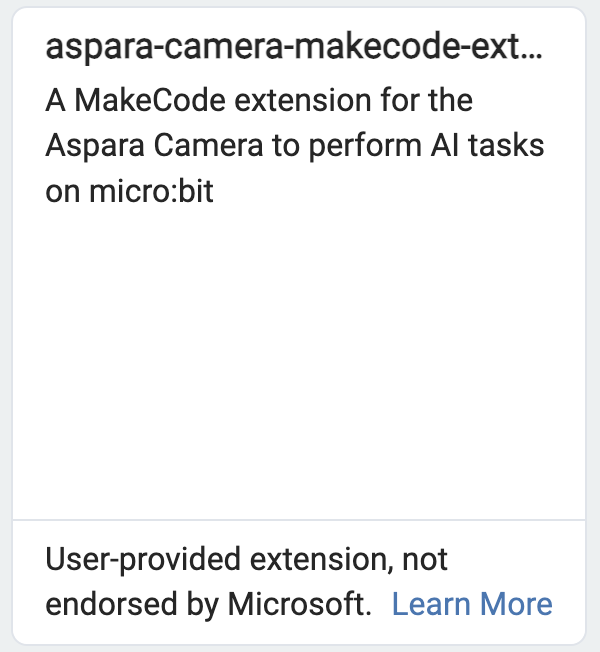
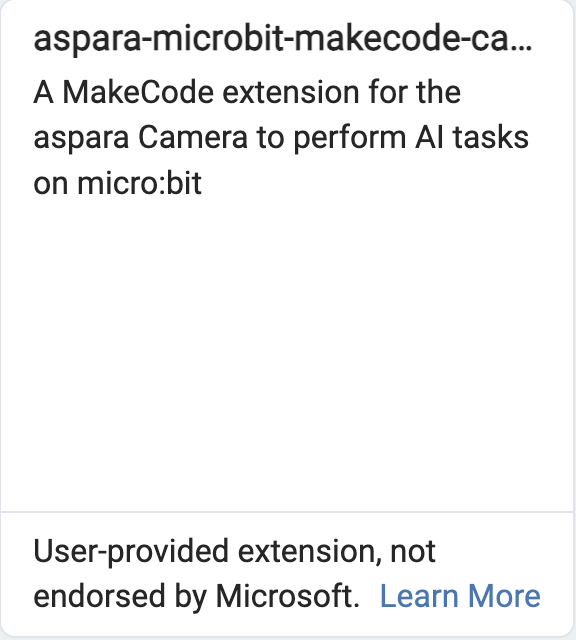
github readme markdown file

diff --git a/README.md b/README.md
@@ -2,23 +2,133 @@
 
 This is the micro:bit MakeCode Extension for controlling the asparaCamera by [Growgreen Limited](https://www.grow-green.com/)
 
+<img src="./pngs/microbit.png" alt="image" width="200" height="auto">
+
 ## How to add aspara Microbit MakeCode Camera Extension to your MakeCode project
 
 * Create/Open a MakeCode project using the micro:bit MakeCode Editor at https://makecode.microbit.org
 * In the web editor, click on <B>"Extensions"</B> to add extensions to the project
 
-    <img src="./pngs/proj_ext_b4.png" width=114 height=245>
+    <img src="./pngs/proj_ext_b4.png" width=114 height="auto">
 
 * Enter "<I><B>https://github.com/growgreenhk/aspara-microbit-makecode-camera-extension</B></I>" and search
 
-    <img src="./pngs/proj_ext_search.png" width=889 height=291>
+    <img src="./pngs/proj_ext_search.png" width=889 height="auto">
 
-* Select the <B>"aspara-smart-grower"</B> from the search results.
+* Select the <B>"aspara-microbit-makecode-camera-extension"</B> from the search results.
 
-    <img src= "./pngs/proj_ext_result.png" width=150 height=163>
+    <img src= "./pngs/proj_ext_result.png" width=144 height="auto">
 
-# aspara Camera Line Tracking Demo
-https://makecode.microbit.org/S82535-81900-19008-26073
+* <B>"asparaCamera"</B> will show up in the editor and be ready to use.
 
-## Usage
-1. Add the extension to your MakeCode project by searching for `aspara-microbit-makecode-camera-extension` or using the GitHub URL: `github.com/...`.
+    <img src="./pngs/proj_ext_complete.png" width=103 height="auto">
+
+## How to use the extension
+### On start - assign the UART Comm port "tx pin" and "rx pin"
+* E.g. P0 to "tx pin" and P1 to "rx pin"
+
+    <img src="./pngs/proj_tx_rx_pins.png" width=200 height="auto"/>
+
+### Assign the asparaCamera to a feature mode.
+* E.g. to the "Line Tracking" mode
+
+    <img src="./pngs/proj_ext_select_mode.png" width="180" height="auto"/>
+
+### Quit a feature mode
+* Select "none" mode
+
+    <img src="./pngs/proj_ext_select_none.png" width="120" height="auto"/>
+
+### Get results
+* Use the following block to get the feature result
+
+    <img src="./pngs/proj_ext_get_results.png" width="220" height="auto"/>
+
+* Wait for result ready, then get the result string or number
+
+## Line Tracking
+* Follow the line with specified color and return the line coordinates
+* You could use the <B><I><span style="color: cyan;">"Line Tracking Select Color"</span></I></B> block or <B><I><span style="color: cyan;">"Line Tracking Set Color"</span></I></B> block to select your target color
+
+    <img src="./pngs/proj_line_tracking_select_color.png" width="auto" height="80"/> <img src="./pngs/proj_line_tracking_select_predefined_color.png" width="auto" height="80">
+
+* Demo: https://makecode.microbit.org/S82535-81900-19008-26073
+
+## Color Tracking
+* Follow the object with specified color and return the coordinates
+* You could use the <B><I><span style="color: cyan;">"Color Tracking Select Color"</span></I></B> block or <B><I><span style="color: cyan;">"Color Tracking Set Color"</span></I></B> block to select your target color
+
+    <img src="./pngs/proj_color_tracking_select_color.png" width="auto" height=80/> <img src="./pngs/proj_color_tracking_select_predefined_color.png" width = "auto" height=80>
+
+* Demo: https://makecode.microbit.org/S24837-51094-76361-54804
+
+## Object Detection
+* General Oject detection and return the number of detected objects.
+
+* Demo: https://makecode.microbit.org/S58563-16833-87646-54598
+
+## Plant Diagnosis
+* Detect the plant health and return the name of the planting problem
+
+* Demo: https://makecode.microbit.org/S54546-52129-52097-99486
+
+## Green/Red Lettuce Classification
+* To detect the plant is Green lettuce or Red lettuce, and it returns "Green" or "Red"
+
+* Demo: https://makecode.microbit.org/S57813-64135-25137-48434
+
+## Object Classifcation
+* Generate Object Classification and return the name of the detected object.
+
+* Demo: https://makecode.microbit.org/S42923-67730-61115-17309
+
+## Image Classification
+* To detect the user labelled ojects on the display and return the label of the result.
+
+* You could use the <B><I><span style="color: cyan;">"Capture Image with Label"</span></I></B> block to add an image on the display with the input label.
+
+    E.g.
+
+    <img src="./pngs/proj_image_classification_add_label.png" width = "auto" height=80>
+    
+    would add the image on the display with label "apple" when button "A" is pressed.
+
+* You could use the <B><I><span style="color: cyan;">"Image Classfication Clear All Labels"</span></I></B> block to clear all labels.
+
+    E.g.
+
+    <img src="./pngs/proj_image_classification_clear_all_labels.png" width = "auto" height=80>
+    
+    would clear all labels when button "A+B" is pressed.
+
+* Demo: https://makecode.microbit.org/S25508-73540-80879-54682
+
+## Face Detection
+* Detect how many faces on the display and return the number of faces.
+
+* Demo: https://makecode.microbit.org/S73568-28523-21337-20324
+
+## Facial Expression Detection
+* Detect the facial expression on the display
+
+* Demo: https://makecode.microbit.org/S47076-23103-19746-57899
+
+## Scan Number
+* Detect the numer 0 - 9 on the display
+
+* Demo: https://makecode.microbit.org/S05224-48559-62435-22184
+
+## Scan Alphabet
+* Detect the numer A - Z, 0 - 9 on the display
+
+* Demo: https://makecode.microbit.org/S08673-11210-13515-81797
+
+## Scan QR/BarCode
+* Detect any QR/Bar code on the display, then return the detected content
+
+* Demo: https://makecode.microbit.org/S45956-38912-02893-96753
+
+## Set WiFi Credentials
+* Set the WiFi SSID and password
+
+* Demo: https://makecode.microbit.org/S11553-56566-32334-15099
